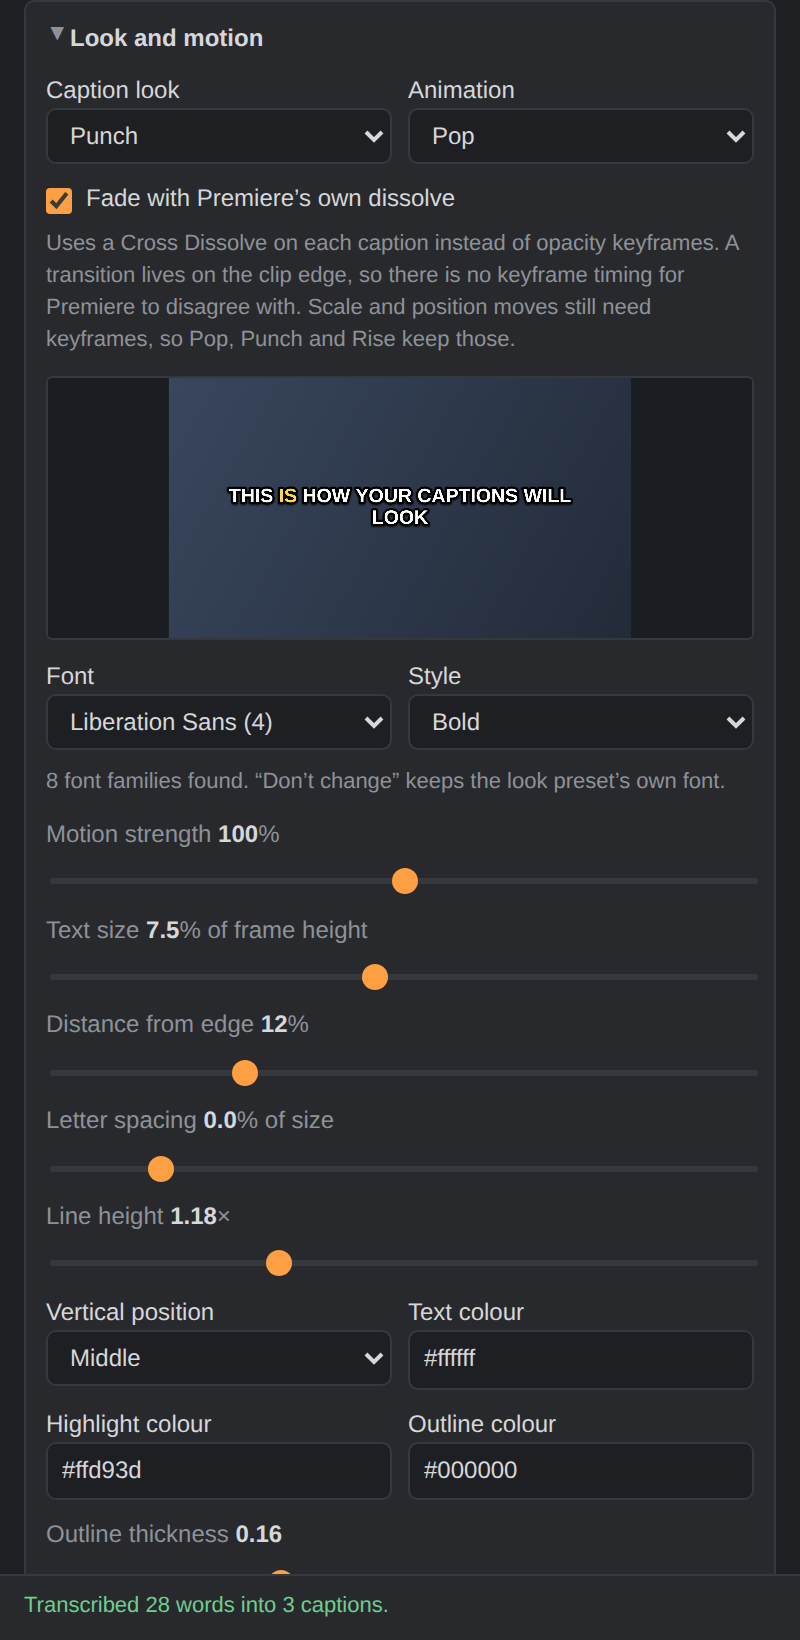
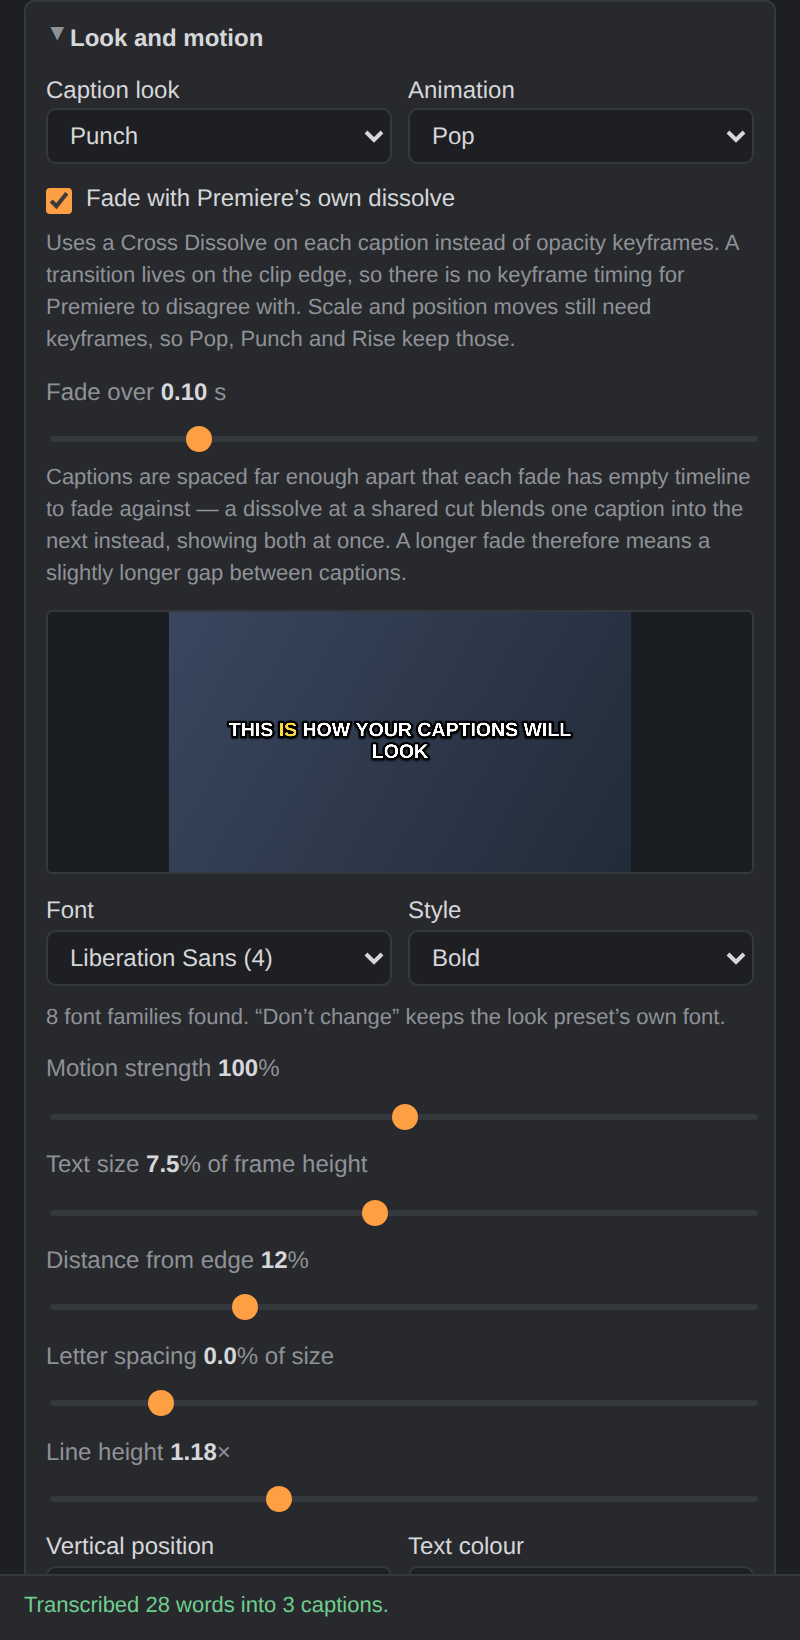
Keep dissolved captions from fading into each other
The dissolve renders, but two captions could sit on screen together,
blended, and for too long. Two causes, one of them mine.

Captions were touching. 0.1.2 added gap bridging so two captions do not
flicker apart, which is right for cut captions and exactly wrong for
dissolved ones: a Cross Dissolve at a shared edit point is a cross fade
between the two clips, so both are visible and blended. It only fades
from nothing when there is nothing on the other side of the cut. Placed
captions are now pulled apart far enough for each fade to have empty
timeline to work against.

That spacing runs on the placed clips rather than on the cues, so the
preview, the .srt and any typed corrections keep the real speech timing,
and moving the fade slider never rebuilds captions or discards edits. A
caption is never shortened below 0.24s to make room.

Premiere was also using its own transition length - a full second -
whenever the call shape it accepted carried no duration in it. On a two
second caption that is most of the caption spent mid-fade. Each
transition is now measured through Track.transitions after it is added
and trimmed to what was asked for, which is the same read-it-back
discipline the rest of this route uses.

Fade length is now a slider, default 0.10s. A longer fade needs a
slightly longer gap between captions; that is the trade.

67 tests pass, 17 scripts parse.

Claude-Session: https://claude.ai/code/session_01271PFe3bSHPZzJ23MVPRpS

diff --git a/extension/jsx/Captionist.jsx b/extension/jsx/Captionist.jsx
@@ -76,7 +76,7 @@ $.captionist = (function () {
             app: String(app.version),
             hasSequence: !!seq,
             sequenceName: seq ? String(seq.name) : '',
-            scriptVersion: '0.1.3'
+            scriptVersion: '0.1.4'
         });
     }
 
@@ -528,7 +528,8 @@ $.captionist = (function () {
 
         for (var e = 0; e < ends.length; e++) {
             var atStart = ends[e][0];
-            var frames = Math.max(1, Math.round(ends[e][1] * (fps || 30)));
+            var wantSec = ends[e][1];
+            var frames = Math.max(1, Math.round(wantSec * (fps || 30)));
             var tc = framesToTimecode(frames, fps || 30);
 
             /*
@@ -549,7 +550,18 @@ $.captionist = (function () {
                     else if (a.length === 3) { item.addTransition(a[0], a[1], a[2]); }
                     else { item.addTransition(a[0], a[1]); }
                 } catch (e1) { continue; }
-                if (transitionCount(track) > was) { added++; break; }
+                if (transitionCount(track) > was) {
+                    /*
+                     * Premiere falls back to its own default transition length
+                     * - a full second - when the call shape it accepted had no
+                     * duration in it. On a two second caption that is most of
+                     * the caption spent mid-fade, so the transition is measured
+                     * and trimmed to what was asked for.
+                     */
+                    trimTransition(track, startSec, atStart, wantSec, durSec);
+                    added++;
+                    break;
+                }
             }
         }
 
@@ -559,6 +571,46 @@ $.captionist = (function () {
         }
         return null;
     }
+
+    /**
+     * Finds the transition nearest this clip edge and holds it to `wantSec`.
+     *
+     * Track.transitions is documented and readable, so unlike a keyframe the
+     * result can be measured rather than assumed.
+     */
+    function trimTransition(track, clipStartSec, atStart, wantSec, durSec) {
+        var edge = atStart ? clipStartSec : clipStartSec + durSec;
+        var n = transitionCount(track);
+        if (n <= 0) { return; }
+
+        var best = null, bestGap = 0.5, i;
+        for (i = 0; i < n; i++) {
+            try {
+                var tr = track.transitions[i];
+                var mid = (timeToSec(tr.start) + timeToSec(tr.end)) / 2;
+                var gap = Math.abs(mid - edge);
+                if (gap < bestGap) { bestGap = gap; best = tr; }
+            } catch (e) {}
+        }
+        if (!best) { return; }
+
+        try {
+            var have = timeToSec(best.end) - timeToSec(best.start);
+            if (!(have > wantSec + 0.01)) { return; }
+
+            // Keep it centred on the edge, which is where Premiere put it.
+            var half = wantSec / 2;
+            best.start = secToTime(Math.max(0, edge - half));
+            best.end = secToTime(edge + half);
+            if (!trimNoted) {
+                trimNoted = true;
+                note('Premiere used its own ' + have.toFixed(2) + 's transition length; ' +
+                     'trimmed to ' + wantSec.toFixed(2) + 's.');
+            }
+        } catch (e1) {}
+    }
+
+    var trimNoted = false;
 
     function framesToTimecode(frames, fps) {
         var total = Math.max(1, Math.round(frames));

diff --git a/extension/js/main.js b/extension/js/main.js
@@ -7,7 +7,7 @@
 
   var STORAGE_KEY = 'captionist.settings.v1';
   var RANGES = ['maxWords', 'maxCharsPerLine', 'maxLines', 'maxDuration', 'gapSplit',
-                'maxCps', 'leadOut', 'lowConfidence',
+                'maxCps', 'leadOut', 'lowConfidence', 'fadeSeconds',
                 'intensity', 'sizePct', 'offsetPct', 'letterSpacing', 'lineSpacing',
                 'outlineWidth'];
   var CHECKS = ['splitOnPunctuation', 'avoidWidows', 'skipMutedTracks', 'translate', 'attach',
@@ -36,6 +36,7 @@
     stylePreset: 'clean',
     animPreset: 'pop',
     nativeFade: true,
+    fadeSeconds: 0.10,
     intensity: 100,
     sizePct: 5,
     offsetPct: 12,
@@ -138,6 +139,7 @@
   function readout(key, value) {
     if (key === 'gapSplit' || key === 'leadOut') { return Number(value).toFixed(2); }
     if (key === 'lowConfidence') { return Math.round(Number(value) * 100) + '%'; }
+    if (key === 'fadeSeconds') { return Number(value).toFixed(2); }
     if (key === 'maxCps') { return Number(value) > 0 ? String(Math.round(value)) : 'off'; }
     if (key === 'maxDuration' || key === 'sizePct') { return Number(value).toFixed(1); }
     if (key === 'lineSpacing' || key === 'outlineWidth') { return Number(value).toFixed(2); }
@@ -1077,7 +1079,10 @@
       logLine('Drew ' + items.length + ' caption graphic(s) into ' + outDir);
       progress(0.85, 'Placing them on the timeline');
 
-      var plan = global.Animation.planFor(items, {
+      // A dissolve needs empty timeline on the other side of the cut, or it
+      // cross fades into the next caption instead of fading from nothing.
+      var spaced = global.Animation.space(items, fadeGap());
+      var plan = global.Animation.planFor(spaced, {
         preset: settings.animPreset,
         intensity: settings.intensity / 100,
         fps: sequenceInfo ? sequenceInfo.fps : 30
@@ -1133,10 +1138,30 @@
     var preset = global.Animation.PRESETS[presetName];
     if (!preset) { return null; }
 
-    var head = (preset.in && preset.in.opacity) ? preset.inSeconds : 0;
-    var tail = (preset.out && preset.out.opacity) ? preset.outSeconds : 0;
+    if (!(settings.fadeSeconds > 0)) { return null; }
+    var head = (preset.in && preset.in.opacity) ? settings.fadeSeconds : 0;
+    var tail = (preset.out && preset.out.opacity) ? settings.fadeSeconds * 0.8 : 0;
     if (!head && !tail) { return null; }
     return { inSeconds: head, outSeconds: tail };
+  }
+
+  /**
+   * How far apart two captions have to be for Premiere's dissolve to work.
+   *
+   * A Cross Dissolve at a shared edit point is exactly that - a cross fade
+   * between the two clips, so both captions are on screen at once, blended
+   * into each other. It is only a fade from nothing when there is nothing on
+   * the other side of the cut.
+   *
+   * Premiere centres a transition on the cut by default, so half of each fade
+   * sits outside its own clip. Leaving that much plus a frame between captions
+   * keeps every fade to itself.
+   */
+  function fadeGap() {
+    var d = dissolveFor(settings.animPreset);
+    if (!d) { return 0; }
+    var fps = (sequenceInfo && sequenceInfo.fps) ? sequenceInfo.fps : 30;
+    return (d.inSeconds + d.outSeconds) / 2 + 1 / fps;
   }
 
   function saveSrt() {

diff --git a/extension/js/animation.js b/extension/js/animation.js
@@ -148,6 +148,40 @@
   }
 
   /** Attaches keyframes to every rendered item, ready for the host side. */
+  /**
+   * Pulls each caption's end back so no two of them touch.
+   *
+   * Premiere's Cross Dissolve at a shared edit point is a cross fade between
+   * the two clips - both captions on screen, blended into each other. It only
+   * fades from nothing when there is nothing on the other side of the cut, so
+   * the dissolve route needs a gap to fade against.
+   *
+   * This runs on the placed clips rather than on the cues, so the preview, the
+   * .srt and any corrections typed into them keep the real speech timing. A
+   * caption is never shortened past `floor`, since a gap is not worth losing
+   * the caption for.
+   */
+  function space(items, gap, floor) {
+    var least = (floor === undefined) ? 0.24 : floor;
+    var out = [], i;
+    for (i = 0; i < items.length; i++) {
+      var it = items[i];
+      var copy = {};
+      for (var k in it) { if (it.hasOwnProperty(k)) { copy[k] = it[k]; } }
+
+      var next = items[i + 1];
+      if (gap > 0 && next) {
+        var latest = next.start - gap;
+        if (copy.end > latest) { copy.end = Math.max(copy.start + least, latest); }
+        // Still overlapping means the captions are tighter than the gap asks
+        // for; keep them apart rather than keep them long.
+        if (copy.end > next.start) { copy.end = next.start; }
+      }
+      out.push(copy);
+    }
+    return out;
+  }
+
   function planFor(items, opts) {
     var out = [], i;
     for (i = 0; i < items.length; i++) {
@@ -169,6 +203,7 @@
     PRESETS: PRESETS,
     keyframesFor: keyframesFor,
     planFor: planFor,
+    space: space,
     REST: REST
   };
 }(window));

diff --git a/extension/index.html b/extension/index.html
@@ -206,6 +206,14 @@
           timing for Premiere to disagree with. Scale and position moves still
           need keyframes, so Pop, Punch and Rise keep those.</p>
       </div>
+      <div class="field">
+        <label for="fadeSeconds">Fade over <b id="fadeSeconds-out">0.10</b> s</label>
+        <input type="range" id="fadeSeconds" min="0" max="0.5" step="0.02" value="0.1">
+        <p class="hint">Captions are spaced far enough apart that each fade has
+          empty timeline to fade against — a dissolve at a shared cut blends one
+          caption into the next instead, showing both at once. A longer fade
+          therefore means a slightly longer gap between captions.</p>
+      </div>
 
       <canvas id="look-preview" class="look-preview"></canvas>
 

diff --git a/CHANGELOG.md b/CHANGELOG.md
@@ -1,5 +1,37 @@
 # Changelog
 
+## 0.1.4
+
+### Fades no longer run into each other
+
+The dissolve renders, but two captions could end up on screen together,
+blended, for too long. Two causes, one of them introduced in 0.1.2.
+
+- **Captions were touching.** 0.1.2 added gap bridging, which closes a gap of
+  a few frames so two captions do not flicker apart. That is right for cut
+  captions and exactly wrong for dissolved ones: a Cross Dissolve at a shared
+  edit point *is* a cross fade between the two clips, so both captions are on
+  screen, blended into each other. It only fades from nothing when there is
+  nothing on the other side of the cut. Placed captions are now pulled apart
+  far enough for each fade to have empty timeline to work against.
+
+  The spacing is applied to the placed clips, not to the cues — so the
+  preview, the .srt and any corrections you typed keep the real speech timing,
+  and changing the fade length never rebuilds your captions.
+
+- **Premiere was using its own transition length.** When the call shape it
+  accepted carried no duration, it fell back to its default — a full second.
+  On a two second caption that is most of the caption spent mid-fade. Each
+  transition is now measured after it is added and trimmed to the length asked
+  for, and the log says when that happened.
+
+- **Fade length is adjustable.** New slider in Look and motion, default
+  0.10 s. A longer fade needs a slightly longer gap between captions, which is
+  the trade being made.
+
+A caption is never shortened below 0.24 s to make room — a gap is not worth
+losing the caption for.
+
 ## 0.1.3
 
 ### Fades use Premiere's own Cross Dissolve
